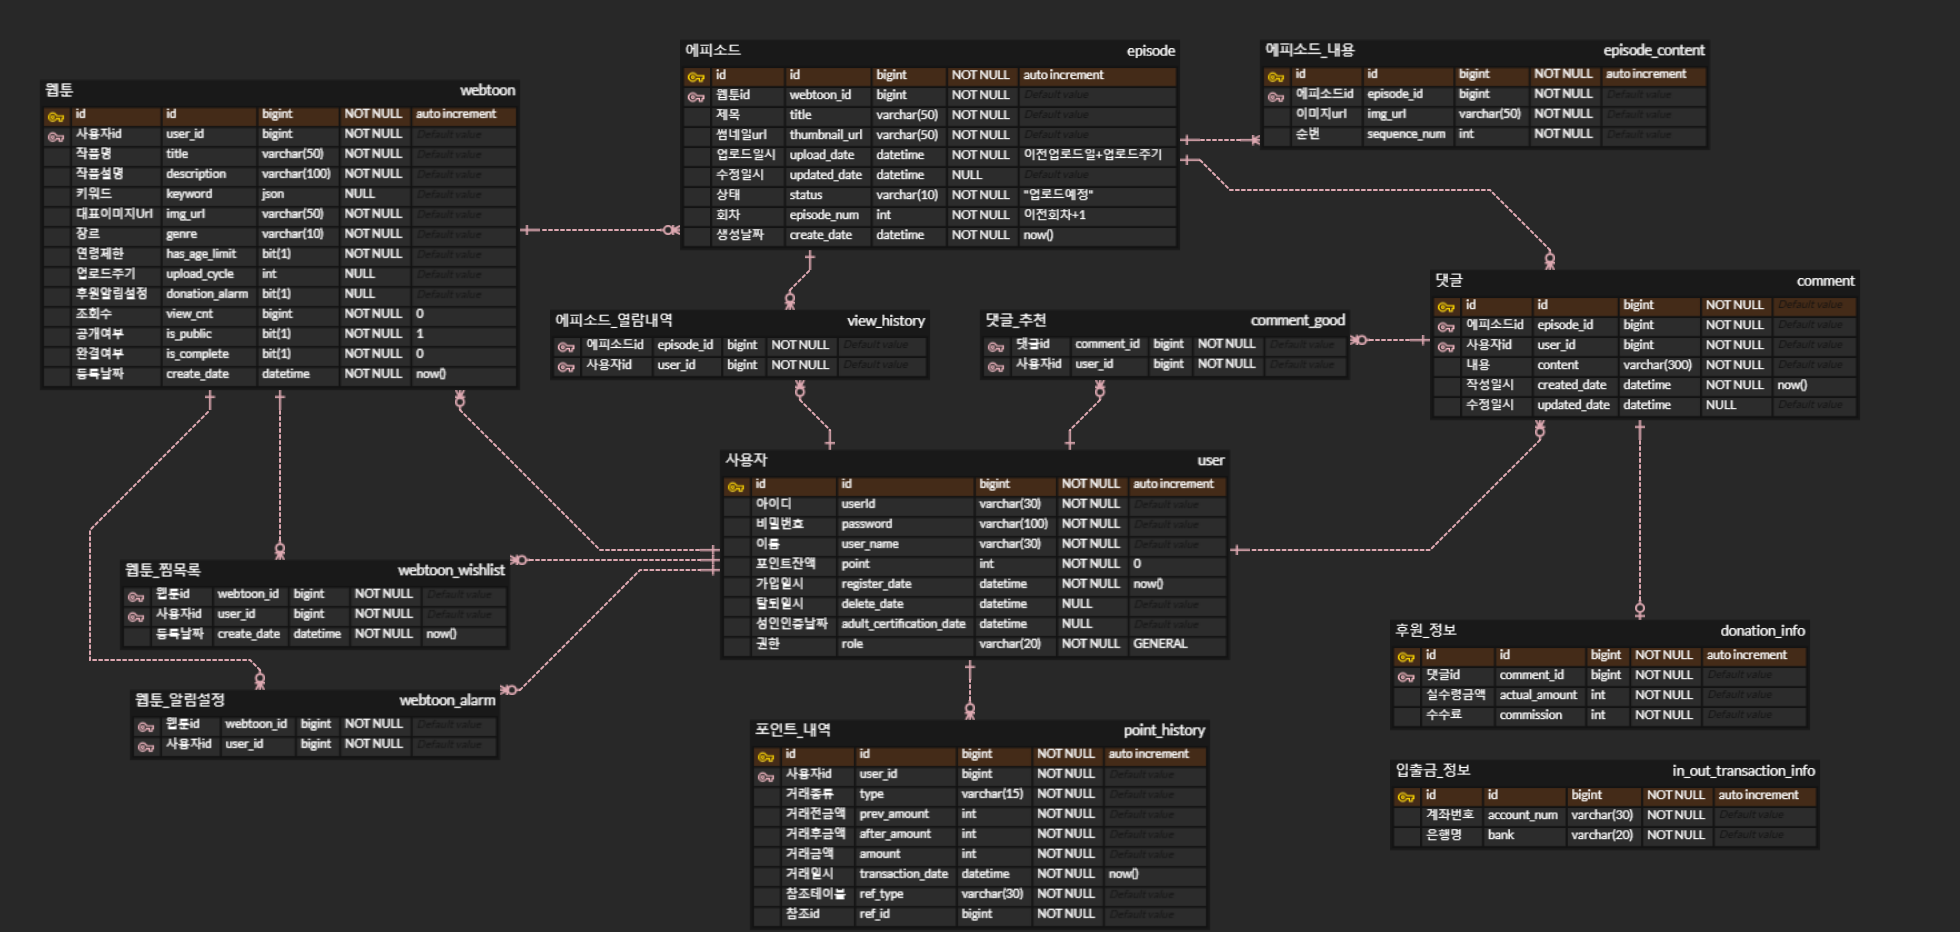
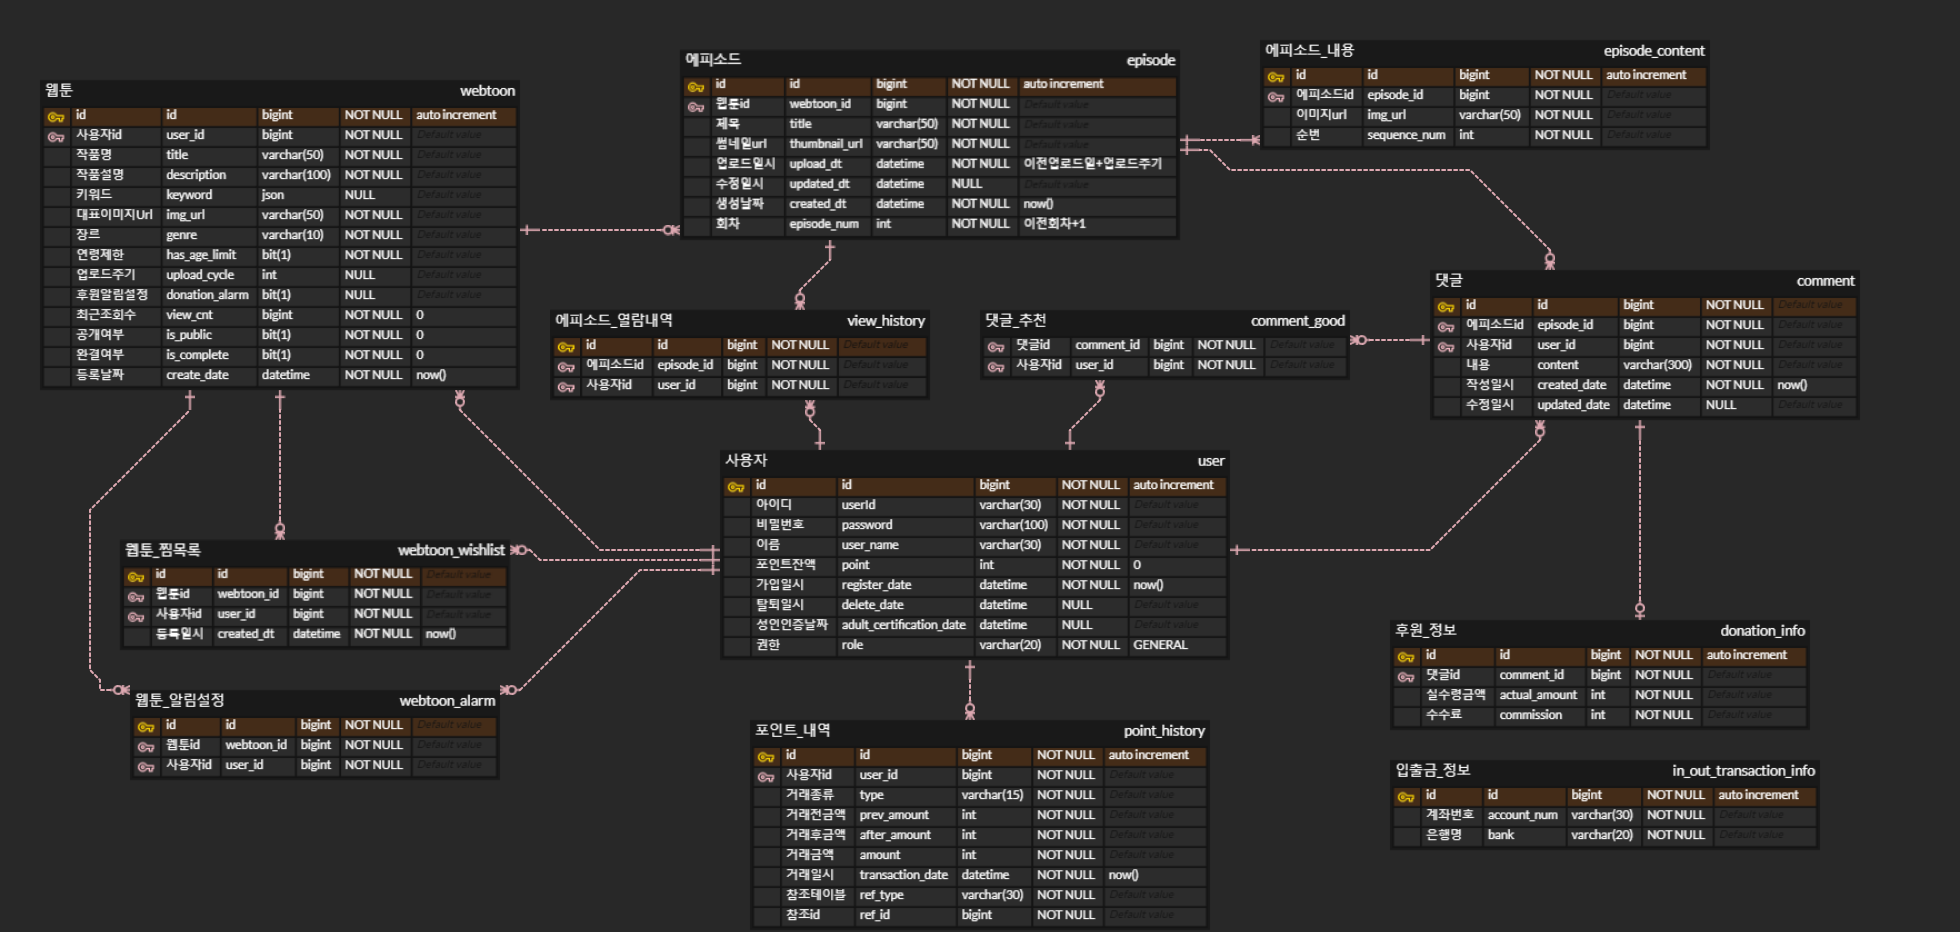
feat: 조회수를 전체 조회수, 최근 조회수로 분리
조회수 순으로 정렬할 때 전체와 최근으로 나누어 조회하므로 컬럼도 따로 사용한다.

diff --git a/src/main/java/com/yo/webtoon/model/entity/WebtoonEntity.java b/src/main/java/com/yo/webtoon/model/entity/WebtoonEntity.java
@@ -49,7 +49,9 @@ public class WebtoonEntity {
     private int uploadCycle;
     private boolean donationAlarm;
     @Builder.Default
-    private Long viewCnt = 0L;
+    private Long totalViewCnt = 0L;
+    @Builder.Default
+    private Long recentViewCnt = 0L;
     @Builder.Default
     private boolean isPublic = false;
     @Builder.Default
